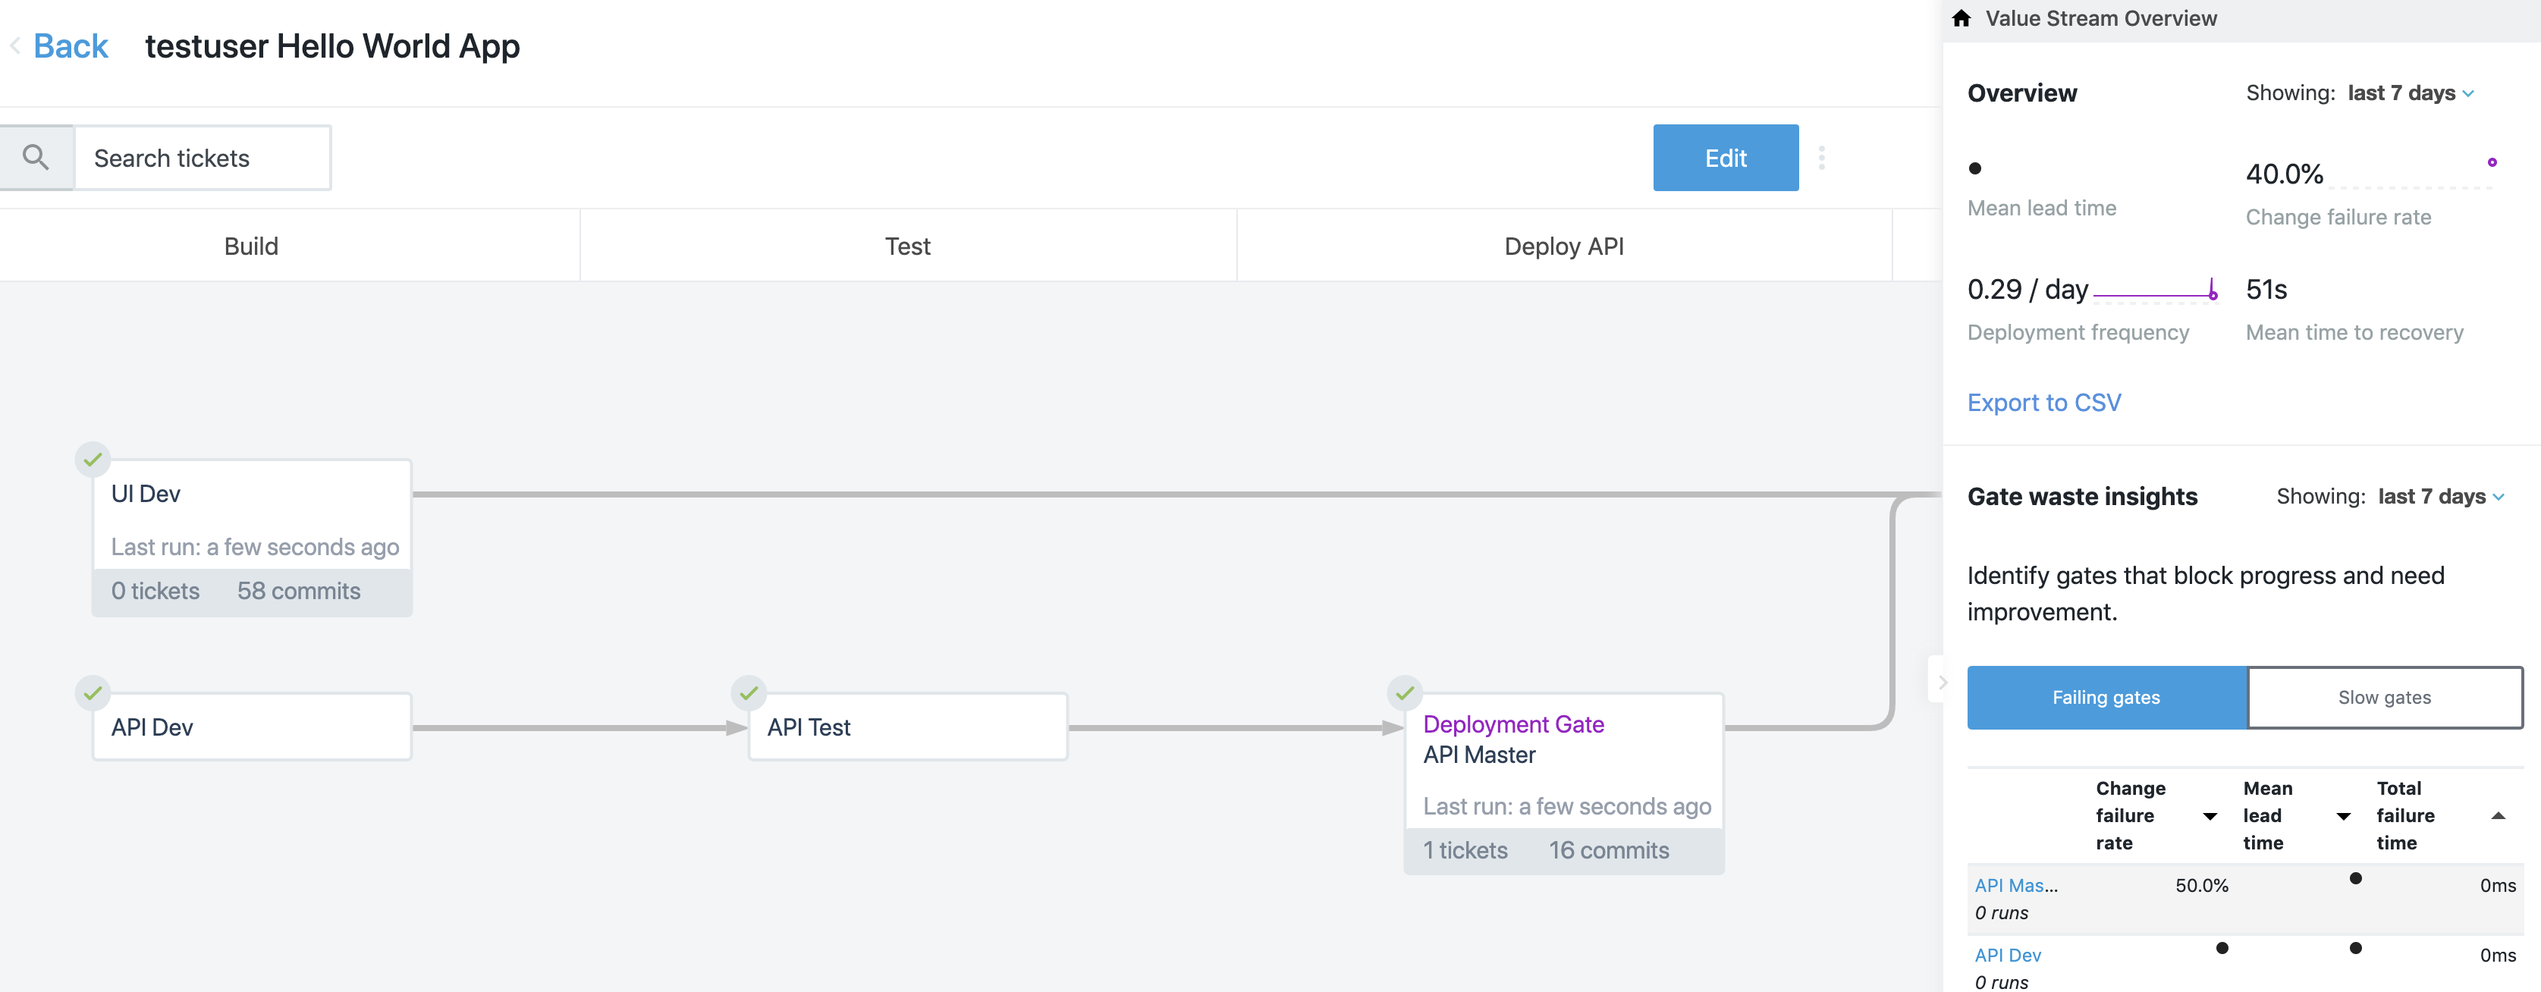
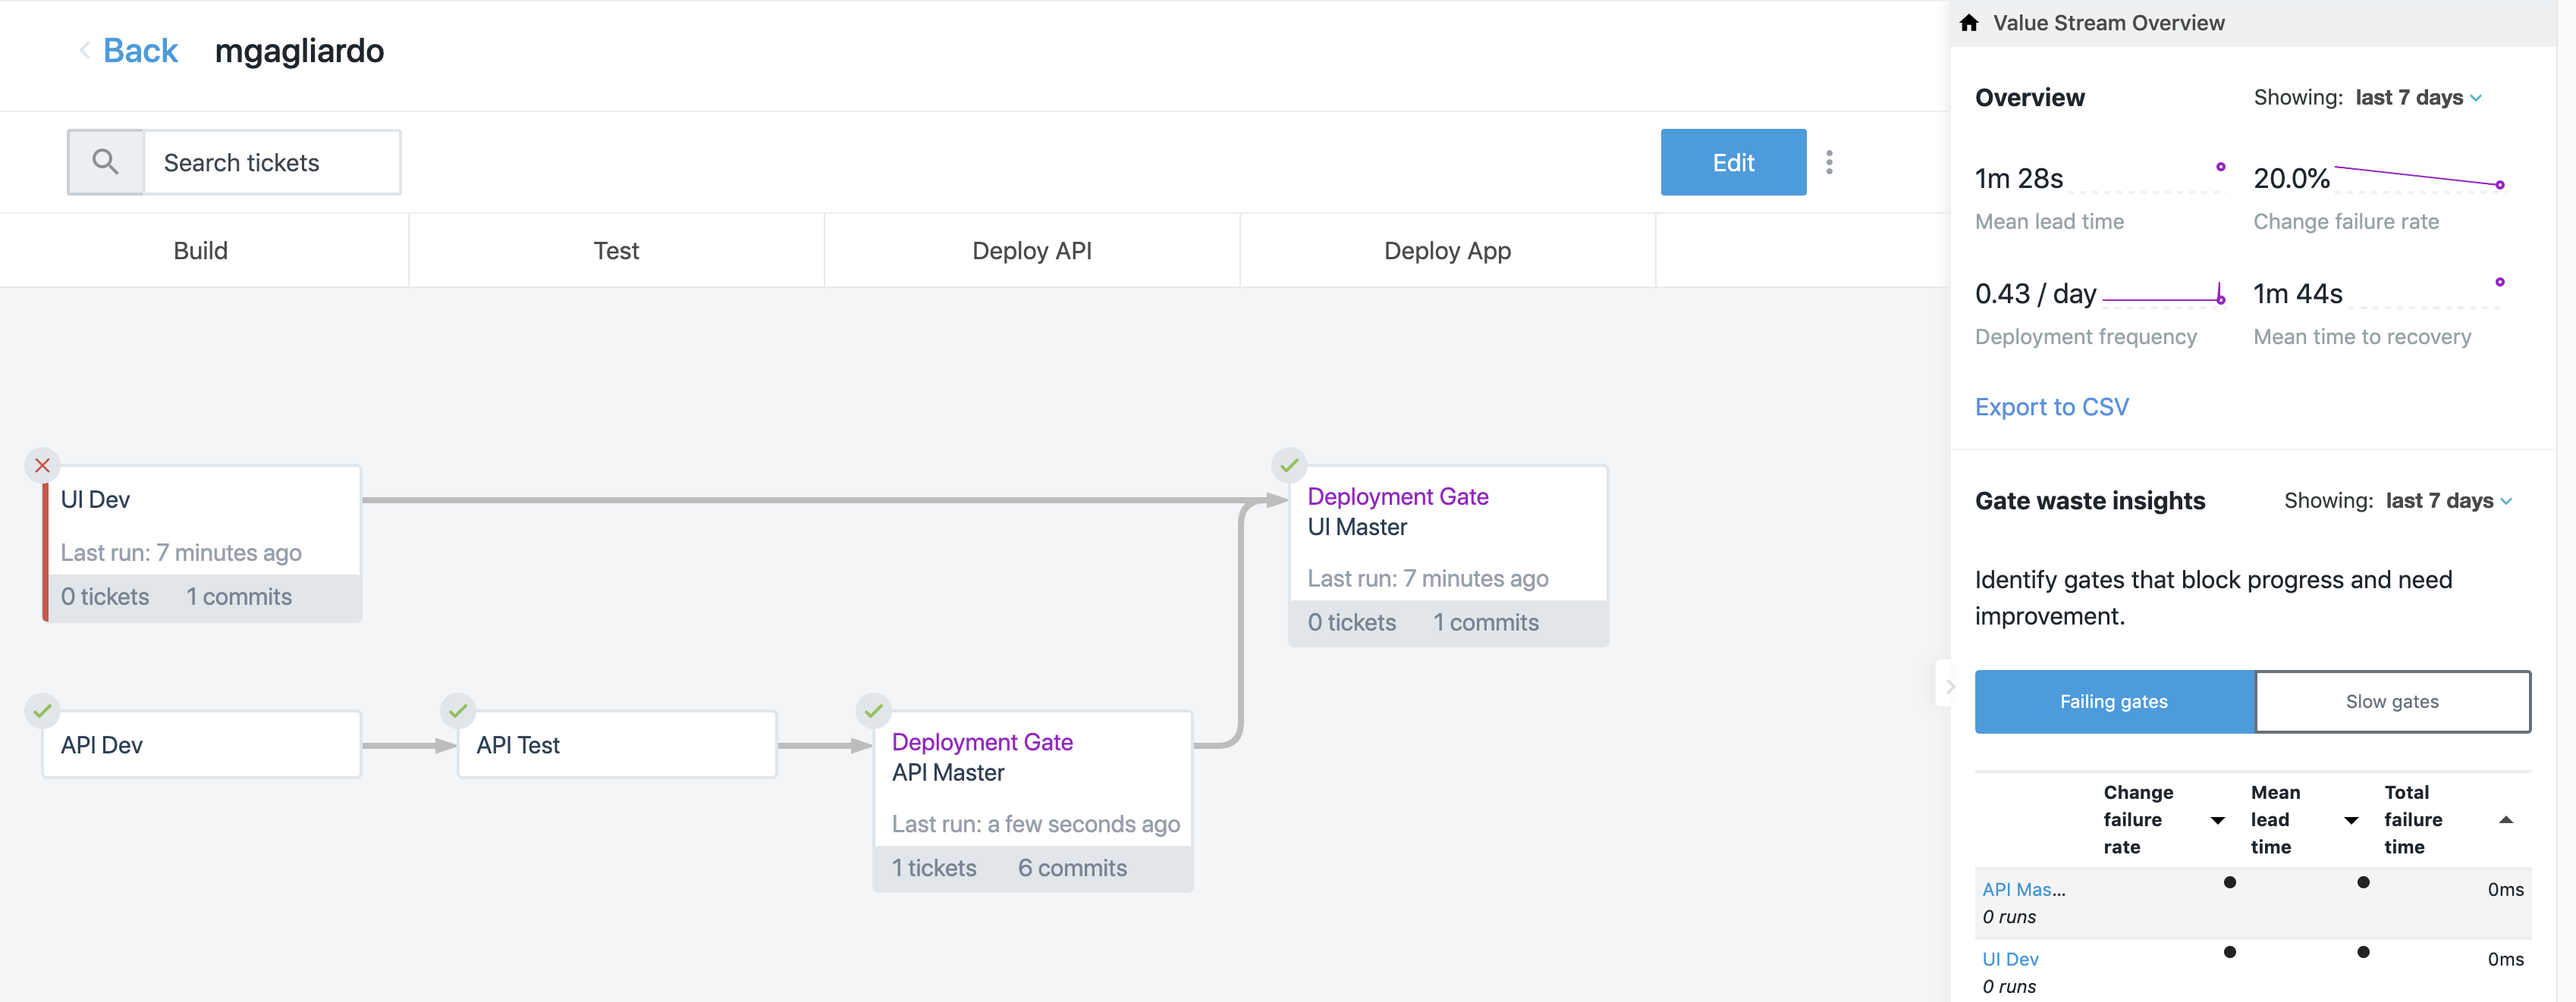
Fixing readme to reflect initial failure

diff --git a/value-streams.md b/value-streams.md
@@ -150,35 +150,28 @@ In addition to the Visual Editor, DevOptics also provides a JSON editor. The JSO
 5. Click the **Save changes** button <p><img src="img/streams/save_json.png" width=800/>
 6. You will have a new Value Stream <p><img src="img/streams/microservice_vs.png" width=800/>.
 
-### Running Your **helloworld-nodejs** Application
+### The **helloworld-nodejs** Application
 
 The **helloworld-nodejs** application is a simple NodeJS app that serves a simple index page with a message.
 
 If you navigate to the `Jenkinsfile` in your fork, you'll notice that there are two stages, a `Web Tests` stage used to test the NodeJS app using a selenium sandbox which runs on the `development` branch and a `Build and Push Image` stage that runs on `master`.
 
-The `UI Dev` gate of the value stream represents the `development` branch of the **helloworld-nodejs** app. The `Web Tests` stage tests whether the hosted nodejs app shows a body of `Hello World!`, spelled correctly.
+The `UI Dev` gate of the value stream represents the `development` branch of the **helloworld-nodejs** app. The `Web Tests` stage tests whether the hosted nodejs app shows a body of `Hello World!`, spelled correctly. The current state of the app has an error (the body shows `Hellow Worlld`) that we will fix in the next few steps.
 
-### Force tests to fail in **helloworld-nodejs** Application
+### Fixing the **helloworld-nodejs** Application
 
-1. Navigate to your fork of **helloworld-nodejs**, select the **development** branch and edit the `hello.js` file. Change the `Hello World!` text on line 13 to say `Hello Worlld!` (misspelled) and then commit the change to the **development** branch with the commit message ***UI-1001 broken message***.
-
-```
-res.render('index', { title: 'Hello', message: 'Hello Worlld!', 
-```
-
-2. Once again, your **helloworld-nodejs** Multibranch **development** job should run and fail and in DevOptics you should see that the **UI Dev** gate has 1 ticket in it and that it failed
-3. In DevOptics you should see that the **UI Dev** gate has 1 ticket in it and that it failed
-3. Now we will fix your app. Open the GitHub editor for the `hello.js` file in the **development** branch of your forked **helloworld-nodejs** repository, on line 13 fix the misspelled ***Worlld*** and then commit the change to the **development** branch with the commit message ***UI-1001 fixed misspelling***
+1. In DevOptics you should see that the **UI Dev** gate has failed due to the error mentioned above.
+2. Open the GitHub editor for the `hello.js` file in the **development** branch of your forked **helloworld-nodejs** repository, on line 13 fix the misspelled ***Worlld*** and then commit the change to the **development** branch with the commit message ***UI-1001 fixed misspelling***
 
 ```
 res.render('index', { title: 'Hello', message: 'Hello World!', 
 ```
 
-4. Now your job should complete successfully and the **UI Dev** gate should show that it finished successfully - what is your MTTR for the **UI Dev** gate? What is the MTTR for the entire Value Stream?
-5. Now that you have fixed your **helloworld-nodejs** application it is time to merge to the **master** branch and deploy. Create a [Pull Request](https://help.github.com/en/articles/creating-a-pull-request) between the **development** branch and **master** branch of your forked **helloworld-nodejs** repository. 
-6. Changed the **base repository** to the **master** branch of your forked **helloworld-nodejs** repository (not the **cloudbees-dwjw** repository), add a comment and then click the **Create pull request** button 
-7. A job will be created for the pull request and once it has completed successfully your pull request will show that **All checks have passed**. Go ahead and click the **Merge pull request** button and then click the **Confirm merge** button but DO NOT delete the **development** branch
-8. In your DevOptics Value Stream you should see the **UI-1001** ticket move from the **UI Dev** gate to the **UI Master** gate. What is your deployment frequency?
+3. Now your job should complete successfully and the **UI Dev** gate should show that it finished successfully - what is your MTTR for the **UI Dev** gate? What is the MTTR for the entire Value Stream?
+4. Now that you have fixed your **helloworld-nodejs** application it is time to merge to the **master** branch and deploy. Create a [Pull Request](https://help.github.com/en/articles/creating-a-pull-request) between the **development** branch and **master** branch of your forked **helloworld-nodejs** repository. 
+5. Changed the **base repository** to the **master** branch of your forked **helloworld-nodejs** repository (not the **cloudbees-dwjw** repository), add a comment and then click the **Create pull request** button 
+6. A job will be created for the pull request and once it has completed successfully your pull request will show that **All checks have passed**. Go ahead and click the **Merge pull request** button and then click the **Confirm merge** button but DO NOT delete the **development** branch
+7. In your DevOptics Value Stream you should see the **UI-1001** ticket move from the **UI Dev** gate to the **UI Master** gate. What is your deployment frequency?
 
 The next DevOptics feature that we will look at is [DevOptics Run Insights](./insights.md).
 
